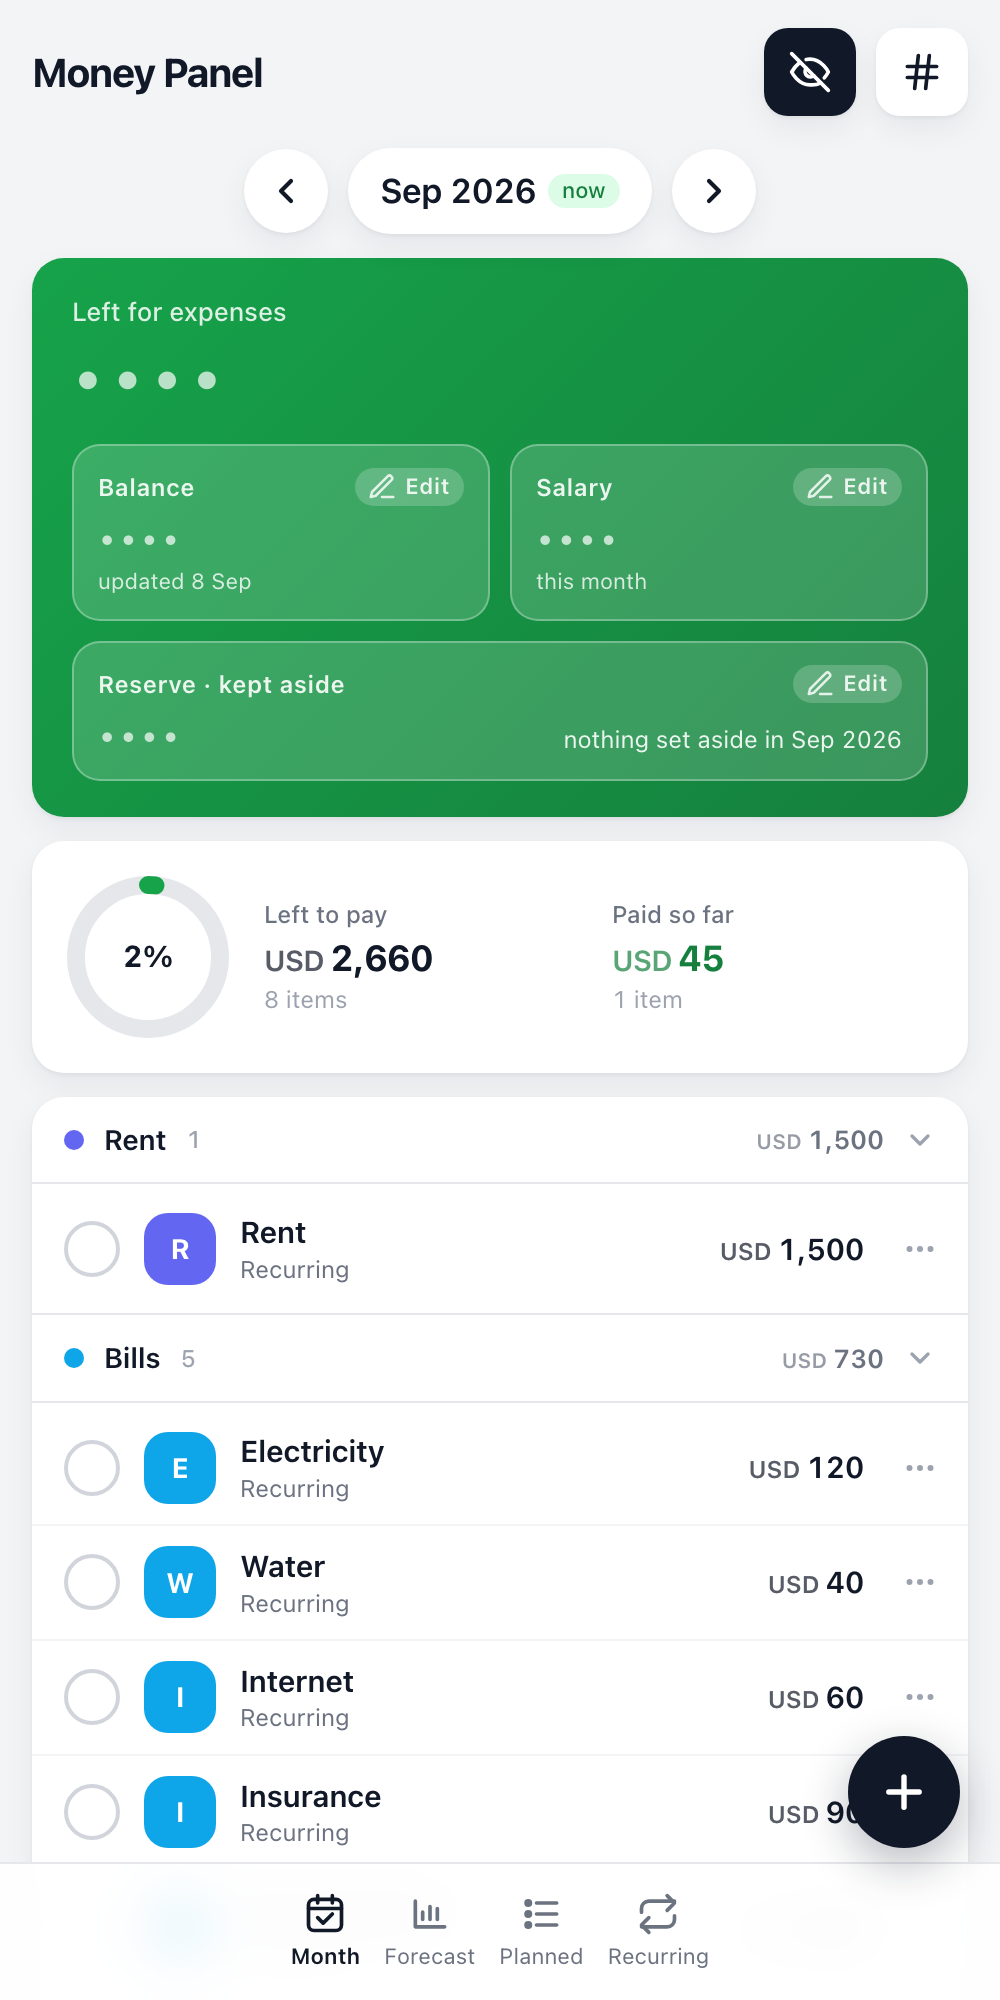
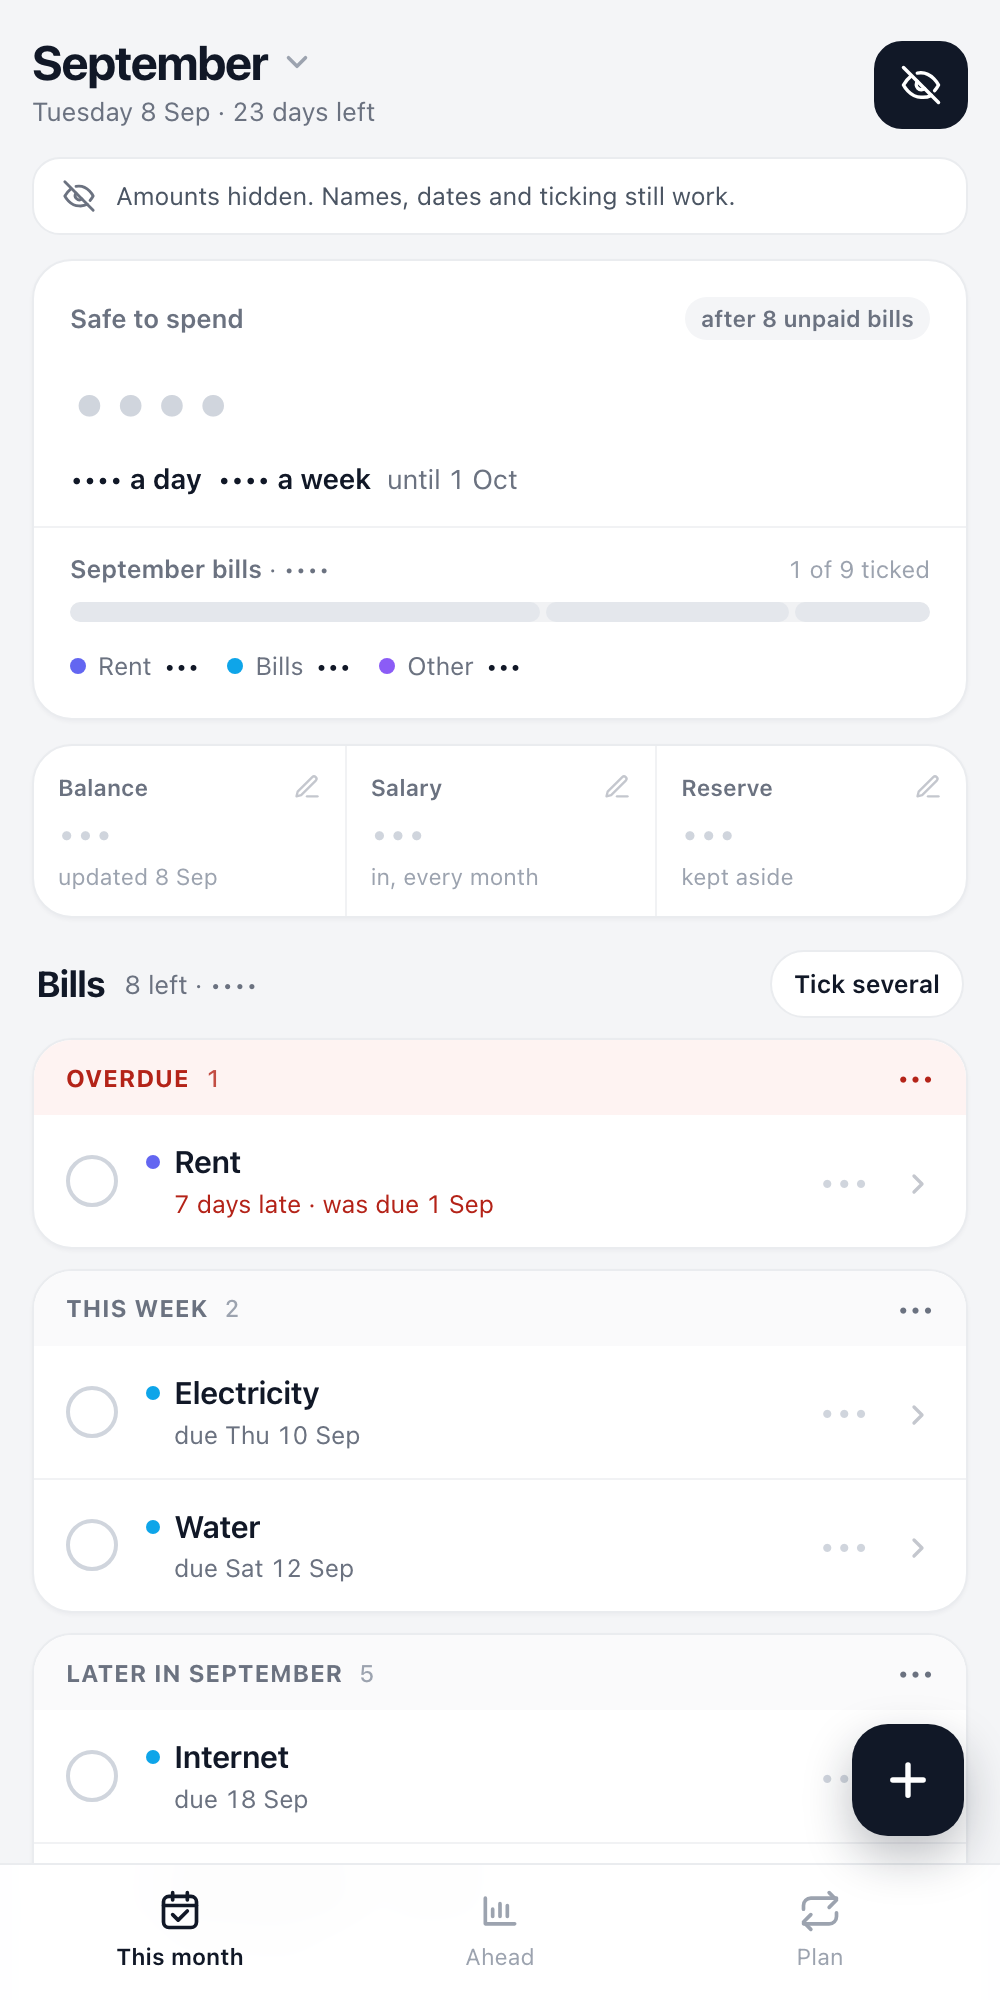
README and screenshots for the redesign

diff --git a/dev/preview.html b/dev/preview.html
@@ -75,7 +75,17 @@
   doc.querySelectorAll('script').forEach(function (s) {
     var el = document.createElement('script'); el.textContent = s.textContent; document.body.appendChild(el);
   });
-  // ?tab=forecast&open=2 jumps to a tab (and expands the nth forecast row) once the app has booted. Used for screenshots.
+  // ?select=3 enters tick-several mode with the first n unpaid bills selected. Used for screenshots.
+  if (params.get('select')) {
+    var t2 = 0;
+    (function sel() {
+      if (window.S && S.data && S.data.month) {
+        var ids = S.data.month.items.filter(function (i) { return i.status !== 'paid'; }).slice(1, 1 + Number(params.get('select'))).map(function (i) { return i.id; });
+        enterSelect(null); ids.forEach(function (id) { S.select.ids[id] = true; }); render();
+      } else if (t2++ < 50) setTimeout(sel, 100);
+    })();
+  }
+  // ?tab=ahead&open=2 jumps to a tab (and expands the nth month row) once the app has booted. Used for screenshots.
   if (params.get('tab')) {
     var tries = 0;
     (function jump() {

diff --git a/Index.html b/Index.html
@@ -563,7 +563,7 @@ function show(tab) {
   exitSelect(false);
   S.tab = tab; S.filterCat = null;
   renderChrome();
-  $('#fab').classList.toggle('hidden', !owner());
+  $('#fab').classList.toggle('hidden', !owner() || tab !== 'month');   // Ahead has its Add pill, Plan its New template button
   window.scrollTo(0, 0);
   load();
 }

diff --git a/README.md b/README.md
@@ -12,17 +12,17 @@ tick bills as you pay them, and see what's left to spend.
 - Works on phone and desktop. Add the URL to your home screen.
 - Others can be given a view-only link.
 
-<p align="center"><img src="docs/desktop.png" alt="Money Panel on desktop: the Month screen with left-for-expenses, balance, salary and reserve tiles, and bills grouped by category" width="900"></p>
+<p align="center"><img src="docs/desktop.png" alt="Money Panel on desktop: left rail, safe-to-spend hero, bills by due date, and a side column with balance, where the month goes, last three months and next month" width="900"></p>
 
 <table>
   <tr>
-    <td align="center"><img src="docs/month.png" alt="Month screen" width="240"><br><sub><b>Month</b> — what is left, bills to tick off</sub></td>
-    <td align="center"><img src="docs/forecast.png" alt="Forecast screen" width="240"><br><sub><b>Forecast</b> — the next months, expanded</sub></td>
-    <td align="center"><img src="docs/planned.png" alt="Planned screen" width="240"><br><sub><b>Planned</b> — one-offs by month</sub></td>
+    <td align="center"><img src="docs/month.png" alt="This month screen" width="240"><br><sub><b>This month</b> — safe to spend, bills by due date</sub></td>
+    <td align="center"><img src="docs/select.png" alt="Tick several mode" width="240"><br><sub><b>Tick several</b> — payday in one action</sub></td>
+    <td align="center"><img src="docs/ahead.png" alt="Ahead screen" width="240"><br><sub><b>Ahead</b> — running balance, one-offs in their month</sub></td>
   </tr>
   <tr>
-    <td align="center"><img src="docs/recurring.png" alt="Recurring screen" width="240"><br><sub><b>Recurring</b> — the templates</sub></td>
-    <td align="center"><img src="docs/masked.png" alt="Month screen with balance hidden" width="240"><br><sub><b>Privacy</b> — balance and salary hidden</sub></td>
+    <td align="center"><img src="docs/plan.png" alt="Plan screen" width="240"><br><sub><b>Plan</b> — templates by rhythm, reserve rule</sub></td>
+    <td align="center"><img src="docs/masked.png" alt="This month with amounts hidden" width="240"><br><sub><b>Private</b> — one switch hides every amount</sub></td>
     <td align="center"><img src="docs/welcome.png" alt="First-run welcome form" width="240"><br><sub><b>First open</b> — three questions and you are in</sub></td>
   </tr>
 </table>
@@ -31,13 +31,14 @@ tick bills as you pay them, and see what's left to spend.
 
 | Tab | What it shows |
 |---|---|
-| **Month** | Left for expenses = bank balance − bills still pending − money kept in reserve. Bills grouped by category, one tap to mark paid (with undo). Paid bills stay listed under "Paid". |
-| **Forecast** | The next 6 or 12 months: salary, expenses, and the running "left after" figure. Months you have not opened yet are projected from your recurring bills plus anything you have planned. |
-| **Planned** | One-off things coming up: a fridge, a trip, a repair. Grouped by month so you can see what lands when. |
-| **Recurring** | Your templates: rent every 2 months, electricity every month, insurance every 6, salary. Each month fills itself in from these. |
+| **This month** | **Safe to spend** = bank balance − unpaid bills − reserve, with the daily pace until payday and a comparison with last month once there is history. Bills are grouped by when they are due: **Overdue**, **This week**, **Later**, and a collapsed **Paid** summary. One tap marks a bill paid (with undo); **Tick several** marks a batch in one go with one undo. A category glance bar shows where the month goes and filters the list. |
+| **Ahead** | The next 6 or 12 months as a running-balance line, one row per month with the month-over-month change, and one-offs (a fridge, a trip) shown as chips inside the month they land in. Months you have not opened yet are projected from your templates. |
+| **Plan** | What every month is built from: salary, the bills that repeat every month, the ones that come now and then, and the **reserve rule** you set once. Each template shows its next occurrence. |
 
-Two privacy buttons in the top bar: one hides salary, balance and left-for-expenses; the
-other hides every number. Handy when someone is looking over your shoulder.
+Balance, salary and reserve are one tap each. A single eye button hides every amount while
+names, dates, overdue flags and ticking keep working. On a wide screen the tabs move into a
+left rail and This month gains a second column: balance freshness, where the month goes,
+safe-to-spend over the last three months, and what next month looks like.
 
 ## Install (about ten minutes, no coding)
 
@@ -54,7 +55,8 @@ other hides every number. Handy when someone is looking over your shoulder.
    (not Library). Execute as **Me**; who has access: **Anyone with Google account**. Deploy,
    approve the permissions, and copy the URL that ends in `/exec`.
 7. Open that URL. The first visit creates the tabs and shows a short welcome form:
-   currency, monthly salary, current balance. Then add your bills in the Recurring tab.
+   currency, monthly salary, current balance. Then add your bills in the Plan tab, with the
+   day of the month each one is due so they sort into Overdue / This week / Later.
 
 Add the URL to your phone's home screen and it behaves like an app.
 
@@ -80,18 +82,27 @@ If you prefer `clasp`: `npx @google/clasp login`, copy `.clasp.json.example` to
   a month you pick. Stopping removes only unpaid rows in later months.
 - **Editing a template** updates unpaid rows from the current month on (optional). A new
   template is added to any month you have already opened where it is due.
-- **Reserve** is money you keep in the account but do not spend. Record what you set aside
-  each month (negative takes some back); the total accumulates and comes off "left for
-  expenses". The forecast assumes you keep setting aside the latest amount.
+- **Reserve** is money you keep in the account but do not spend. Set a monthly rule once in
+  Plan; record what you actually set aside each month from This month (negative takes some
+  back). The total accumulates and comes off safe-to-spend. The forecast keeps the rule aside
+  for months you have not opened.
+- **Due dates** are optional. A template's due day of month becomes each row's due date,
+  clamped to the month's length. Rows without one sit under "Later".
+- **Last month's comparison** uses what safe-to-spend actually was, recorded as you use the
+  app. It stays hidden until there are two months of history, so it never shows an invented
+  number.
 
 ## The tabs it creates
 
 | Tab | Columns |
 |---|---|
-| `Items` | id, month, name, category, amount, status, paid_on, source, template, notes |
-| `Months` | month, salary, balance, balance_updated, expanded, reserve |
-| `Recurring` | id, name, category, amount, every_n_months, start_month, end_month, active |
-| `Settings` | key, value |
+| `Items` | id, month, name, category, amount, status, paid_on, source, template, notes, due_on |
+| `Months` | month, salary, balance, balance_updated, expanded, reserve, left_snapshot |
+| `Recurring` | id, name, category, amount, every_n_months, start_month, end_month, active, due_day |
+| `Settings` | key, value (`currency`, `categories`, `reserve_monthly`) |
+
+Columns are only ever appended. A sheet from an earlier version gets the new headers added
+automatically the next time the owner opens the app, and every new column is optional.
 
 Months are `YYYY-MM`. To change the expense categories or the currency, edit the
 `categories` and `currency` rows in `Settings`. Default categories are Rent, Bills, School,
@@ -111,8 +122,9 @@ account. If edit controls are missing when *you* open it, set `OWNER_EMAIL` at t
 `python3 -m http.server 8765` in this folder, then open
 `http://127.0.0.1:8765/dev/preview.html` to click through the UI with sample data.
 `?fresh=1` shows the first-run welcome flow; `?viewer=1` simulates a non-owner;
-`?tab=forecast&open=2` and `?mask=sens` jump to a state for screenshots. The images in
-`docs/` were taken with headless Chrome against that preview at a 500px-wide window.
+`?tab=ahead&open=2`, `?select=3`, `?mask=all` and `?stale=1` jump to a state for
+screenshots. The images in `docs/` were taken with headless Chrome against that preview at
+a 500px-wide window (1360px for the desktop shot).
 
 ## Not included (yet)
 
